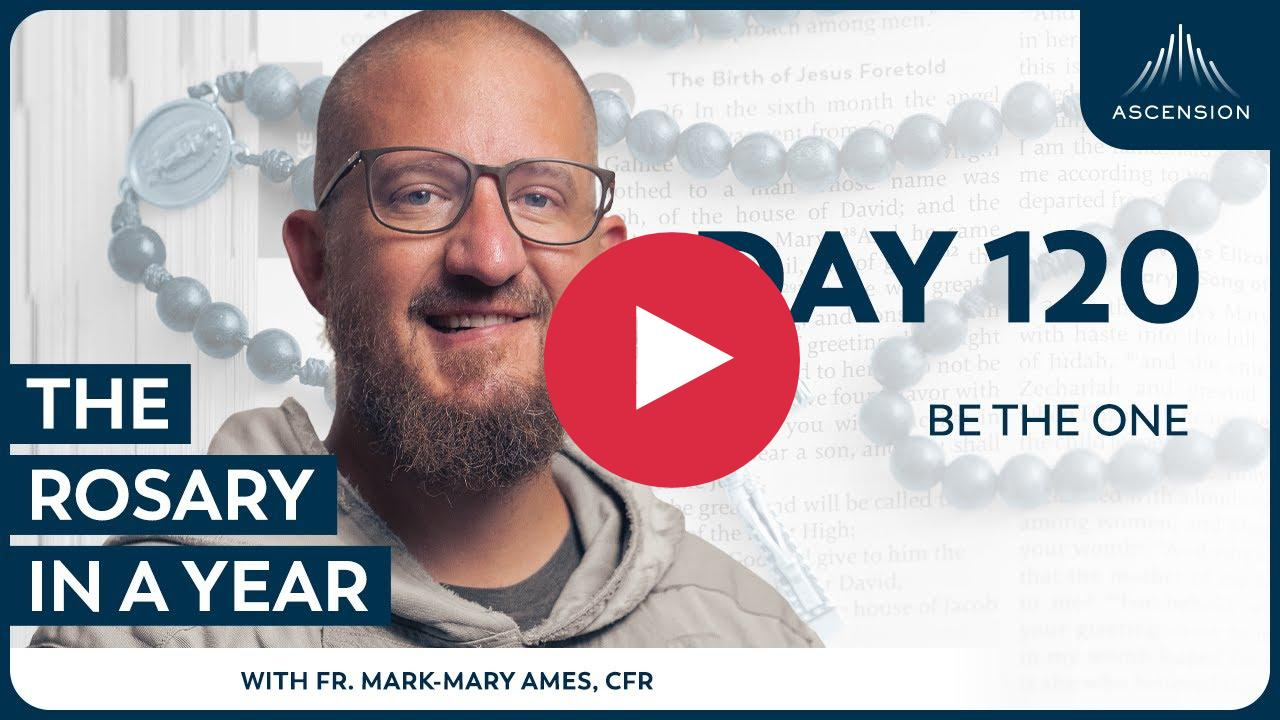
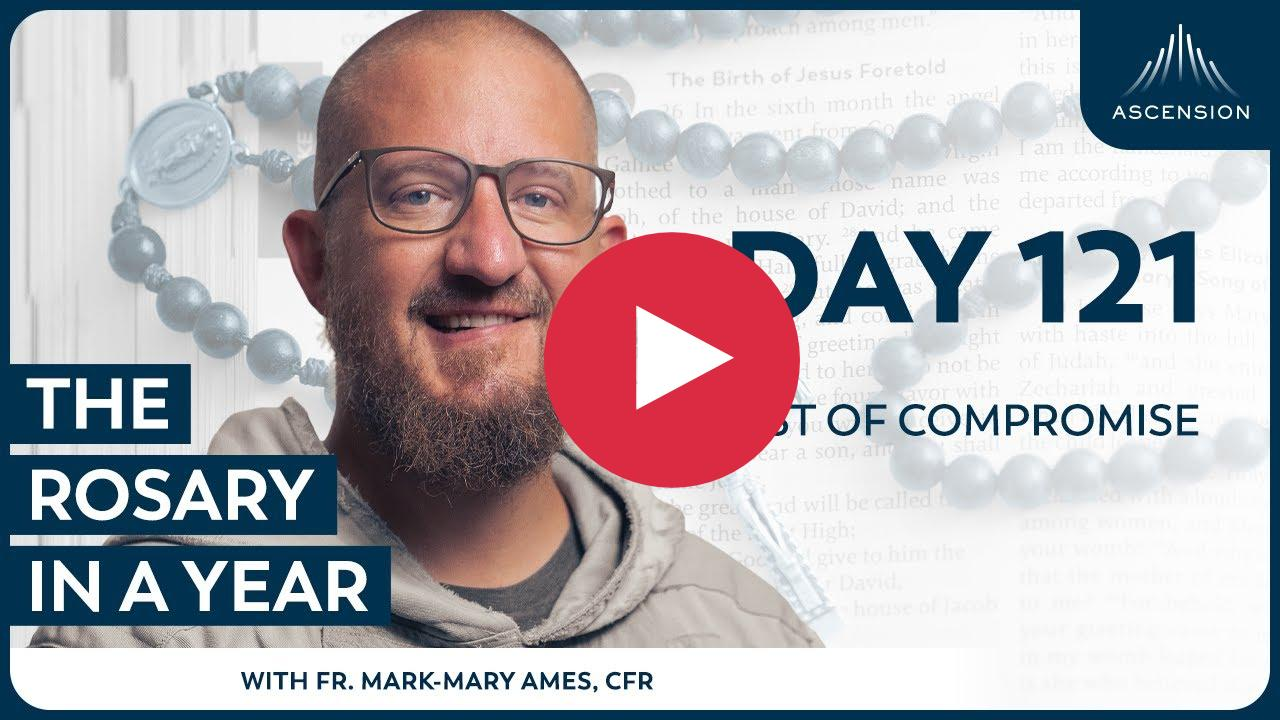
feat: add day 121 video

Changed region(s): [[0.5312, 0.3056, 0.9375, 0.4583], [0.5938, 0.55, 0.9375, 0.6111]]

diff --git a/README.md b/README.md
@@ -3898,11 +3898,37 @@ We are thus presented with a choice. Will we be like those who turned away, forg
 
 <!-- toc -->
 
+- [May 01,2025](#may-012025)
+  - [The Cost of Compromise](#the-cost-of-compromise)
+  - [AI-Generated Summary: The Terrible Price of Compromise](#ai-generated-summary-the-terrible-price-of-compromise)
+
 <!-- tocstop -->
 
 ### May 2025
 
 RIAY May 2025
+
+#### May 01,2025
+
+##### The Cost of Compromise
+
+[![The Cost of Compromise](https://raw.githubusercontent.com/linusjf/RIAY/refs/heads/main/May/jpgs/Day121.jpg)](https://youtu.be/qJmcYkPMFbE "The Cost of Compromise")
+
+##### AI-Generated Summary: The Terrible Price of Compromise
+
+My dear friends, let us consider a rather uncomfortable subject: the matter of compromise, particularly where Truth is concerned. We see it starkly in Pilate’s handling of Our Lord during His Passion, specifically the dreadful episode of the crowning with thorns.
+
+Archbishop Sheen, in his reflections, points out Pilate’s predicament. Here was a man trying to navigate between the demands of a hostile crowd and the nagging voice of his own conscience. His solution? A compromise. He had Jesus scourged, hoping, perhaps, that the sight of blood would satisfy the accusers without forcing him to condemn an innocent man. But such bargains rarely, if ever, lead to justice. As Sheen rightly observes, if Jesus were guilty, He deserved condemnation; if innocent, release. Pilate’s middle path was rooted not in a search for truth – he never sincerely asked _who_ Jesus was – but in political expediency and self-preservation.
+
+Now, before we judge Pilate too harshly, we must look inward. Have we not all, at times, behaved similarly? I recall my own younger days, striving to be seen as ‘well-rounded’, participating in just enough religious activity to appear respectable, while simultaneously dipping my toes into worldly ways to gain acceptance there. It was a balancing act, an attempt to please opposing sides, much like Pilate’s. It was, I came to realise, a form of hypocrisy.
+
+This leads us to a crucial point:
+
+- **Truth Demands All:** True faith cannot be merely _part_ of one's life, a compartment kept separate from others, or a tool used for social advantage. It must be the foundation upon which the _entire_ life is built. Christ must be King, not a constitutional monarch whose power we limit.
+- **Compromise is Mockery:** When we attempt to bargain with God, to dilute His commands, or to keep areas of our lives cordoned off from His influence – perhaps by consuming questionable things, engaging in gossip to fit in, or prioritising convenience over righteousness – we are, in effect, doing what the soldiers did. We place a crown of thorns upon Him, put a reed in His hand, and pay Him feigned homage. We treat the King of the Universe as a pawn in our own game of self-interest.
+- **The Ongoing Battle:** Even after recognising this, the temptation to compromise persists. It whispers to us to accept mediocrity, to flirt with lesser sins, to appease people or passions rather than stand firm for what is right and true. It is a spirit that shies away from hard truths and seeks easy ways out.
+
+Let this reflection, then, serve not as condemnation, but as a bracing call. Let us recognise the spirit of compromise for what it is – a mockery of the Lord who endured actual mockery and torture for our sake. Truth cannot be bargained with. God will not be mocked. Let us, therefore, reject these shabby compromises and enthrone Christ fully as King of our hearts and lives, giving Him the adoration He alone deserves.
 
 ## June
 

diff --git a/May/Day121.md b/May/Day121.md
@@ -1,15 +1,3 @@
-<!-- toc -->
-
-- [May 01,2025](#may-012025)
-  - [The Cost of Compromise](#the-cost-of-compromise)
-  - [AI-Generated Summary: The Terrible Price of Compromise](#ai-generated-summary-the-terrible-price-of-compromise)
-
-<!-- tocstop -->
-
-# May 2025
-
-RIAY May 2025
-
 ## May 01,2025
 
 ### The Cost of Compromise
